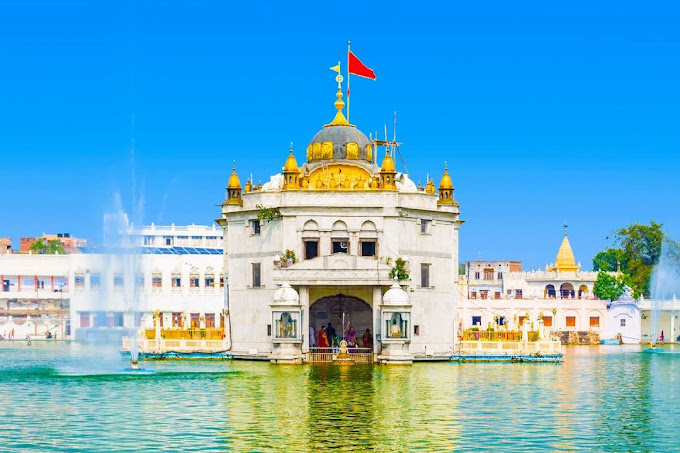
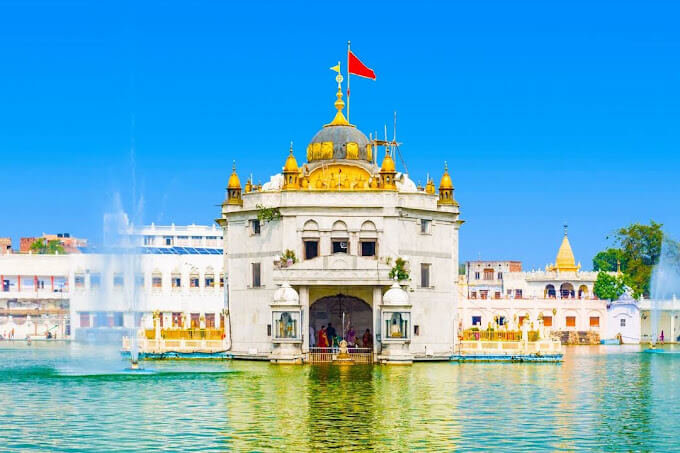
Fixed image resolution on different pages by uploading new or better resoultion images

Changed region(s): [[0.4941, 0.1545, 0.5559, 0.1854], [0.5559, 0.3091, 0.5868, 0.34]]

diff --git a/attractions.html b/attractions.html
@@ -39,17 +39,19 @@
     <!-- Main Content -->
     <main>
         <section id="attractions">
-            <h1>Top attractions of Amritsar</h1>
+            <h1><i class="fa-solid fa-image"></i> Top attractions of Amritsar</h1>
             <div id="photos">
                 <img src="assets/images/goldentemplediwali.jpg" alt="Golden Temple">
                 <img src="assets/images/ramtirath.jpg" alt="Ram Tirath">
                 <img src="assets/images/durgiana.jpg" alt="Shri Durgiana Temple">
-                <img src="assets/images/jallianawalabagh.jfif" alt="Jallianwala Bagh">
-                <img src="assets/images/museum.png" alt="Maharaja Ranjit Singh Museum">
-                <img src="assets/images/gobindfort.jfif" alt="Gobindgarh Fort">
-                <img src="assets/images/wagaborder.webp" alt="Attari–Wagah border">
+                <img src="assets/images/maharajaranjitsingh.jpg" alt="Maharaja Ranjit Singh">
+                <img src="assets/images/jallianwalabagh.jpg" alt="Jallianwala Bagh">
+                <img src="assets/images/waghaborder.jpg" alt="Attari–Wagah border">
+                <img src="assets/images/gobindgarhfort.jpg" alt="Gobindgarh Fort">
                 <img src="assets/images/saddapind.jpg" alt="Sadda Pind">
-                <img src="assets/images/chokidhani.webp" alt="Chokhi Dhani">
+                <img src="assets/images/chokidhani.jpg" alt="Chokhi Dhani">
+                <img src="assets/images/sikhboy.jpg" alt="Sikh Boy">
+                <img src="assets/images/fields.jpg" alt="Fields">
             </div>
         </section>
     </main>

diff --git a/assets/css/style.css b/assets/css/style.css
@@ -98,7 +98,7 @@ main {
 }
 
 #cover-text {
-    background-color: #daa520c4;
+    background-color: #DAA520;
     font-size: 130%;
     position: absolute;
     bottom: 30px;
@@ -150,6 +150,7 @@ main {
 
 /* Attractions Page */
 #attractions h1 {
+    padding: 20px;
     font-size: 150%;
     text-align: center;
 }
@@ -300,8 +301,9 @@ main {
 
     /* Hero */
     #cover-text {
-        width: 475px;
+        width: 500px;
         min-height: 75px;
+        padding-left: 25px;
     }
 
     /* City info section */
@@ -333,7 +335,6 @@ main {
 
     /* Attraction Page */
     #attractions h1 {
-        padding: 20px;
         font-size: 200%;
     }
     
@@ -411,6 +412,10 @@ main {
     /* Main content */
     main {
         margin-top: 77px;
+    }
+
+    #hero {
+        height: 800px;
     }
 
     /* City info section */
